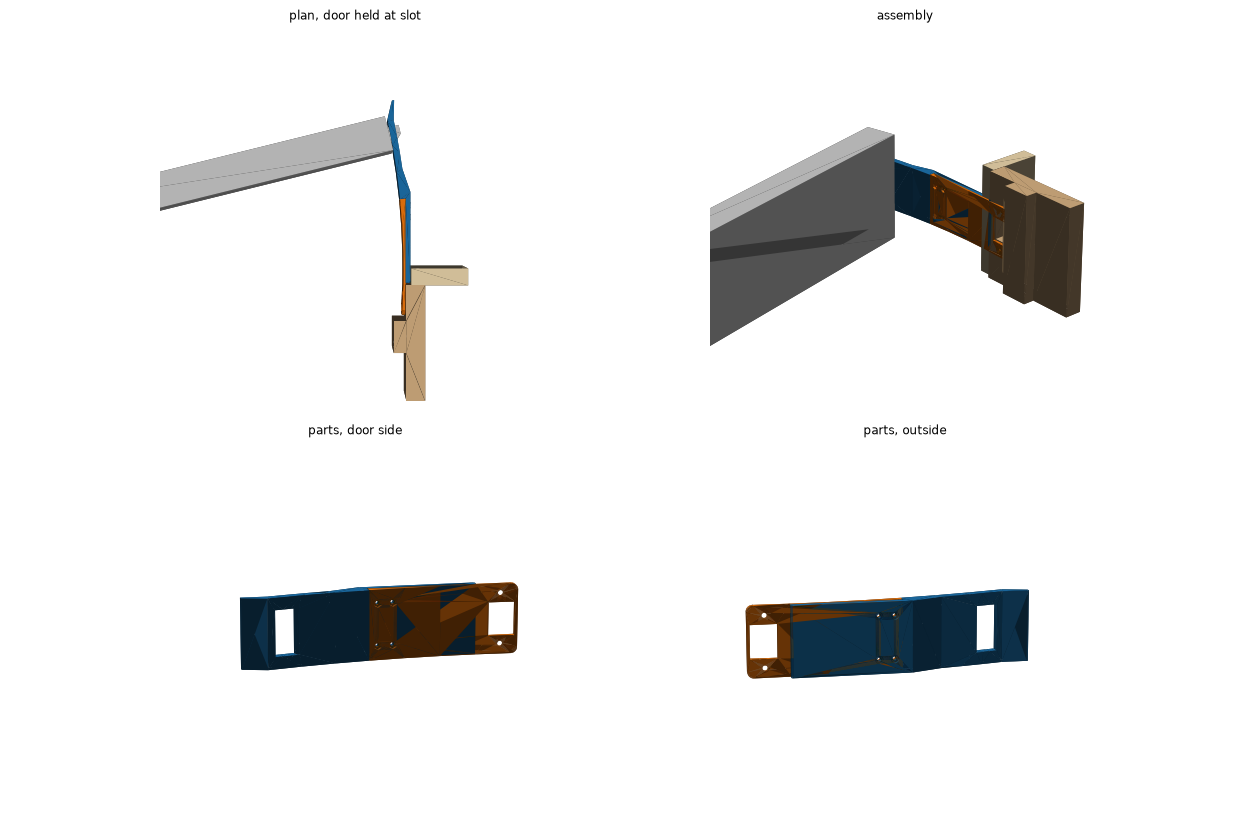
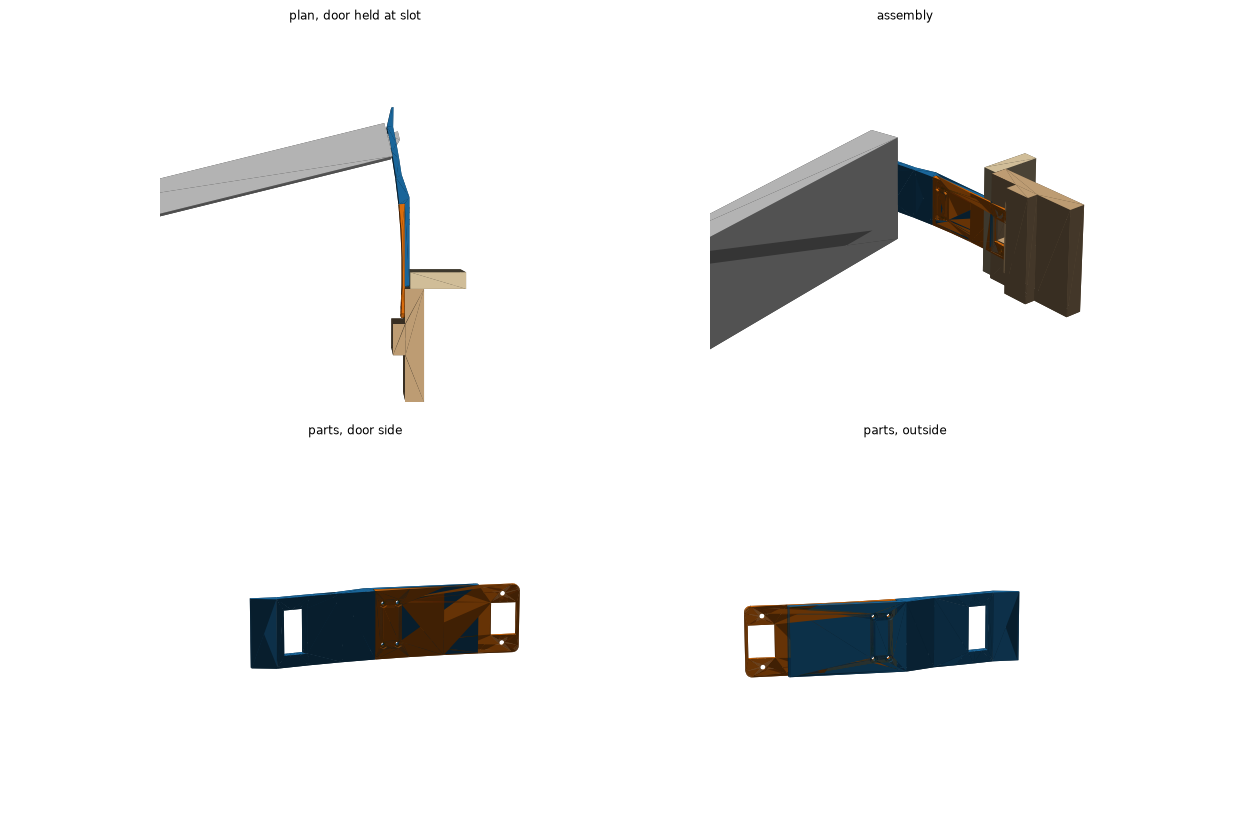
Add README, renders and render script
Rewrite the README with photos-style renders, hardware, install and
print guidance; add a PyVista render script for the images and keep
NOTES.md wording neutral for a public repo.

Claude-Session: https://claude.ai/code/session_017oSnG4KLpSGDZDYQZdmLJC

diff --git a/tools/render.py b/tools/render.py
@@ -1,0 +1,65 @@
+"""Render the README images in images/ with PyVista (VTK).
+
+Run from the repo root:
+  uv run --with build123d --with pyvista python tools/render.py
+"""
+
+import sys
+import tempfile
+from math import degrees
+from pathlib import Path
+
+ROOT = Path(__file__).resolve().parent.parent
+sys.path.insert(0, str(ROOT))
+
+import pyvista as pv
+from build123d import export_stl
+
+from cat_door_latch import P, make_arm, make_casing, make_door, make_jamb, make_plate
+
+COLORS = {"plate": "#e8892c", "arm": "#2f7fc1", "door": "#d9d9d9", "jamb": "#c9a57a", "casing": "#e3cfa6"}
+
+p = P()
+solids = {
+    "plate": make_plate(p),
+    "arm": make_arm(p),
+    "door": make_door(p, degrees(p.slot_s / p.r_in), view_h=110),
+    "jamb": make_jamb(p, 110),
+    "casing": make_casing(p, 110),
+}
+meshes = {}
+with tempfile.TemporaryDirectory() as tmp:
+    for k, s in solids.items():
+        export_stl(s, f"{tmp}/{k}.stl", tolerance=0.02, angular_tolerance=0.1)
+        meshes[k] = pv.read(f"{tmp}/{k}.stl")
+
+# Trim the reference parts to the area around the latch.
+clip = pv.Box(bounds=(560, 800, -120, 260, -60, 60))
+for k in ("door", "jamb", "casing"):
+    meshes[k] = meshes[k].clip_box(clip.bounds, invert=False)
+
+
+def render(keys, name, camera, size=(1600, 1000), zoom=1.0):
+    pl = pv.Plotter(off_screen=True, window_size=size)
+    pl.set_background("white")
+    for k in keys:
+        pl.add_mesh(meshes[k], color=COLORS[k], smooth_shading=False, specular=0.2, ambient=0.25)
+        edges = meshes[k].extract_feature_edges(feature_angle=35, boundary_edges=False, manifold_edges=False)
+        pl.add_mesh(edges, color="#333333", line_width=1.2)
+    pl.enable_anti_aliasing("ssaa")
+    pl.camera_position = camera
+    pl.reset_camera()
+    pl.camera.zoom(zoom)
+    (ROOT / "images").mkdir(exist_ok=True)
+    pl.screenshot(ROOT / "images" / name)
+    pl.close()
+
+
+everything = ["door", "jamb", "casing", "plate", "arm"]
+up = (0, 0, 1)
+render(everything, "assembly.png", [(860, 430, 230), (700, 70, 0), up], zoom=1.3)
+render(everything, "plan.png", [(690, 70, 900), (690, 70, 0), (0, 1, 0)], zoom=1.2)
+render(["plate", "arm"], "parts_door_side.png", [(450, 150, 120), (705, 90, 0), up], (1600, 900), 1.4)
+render(["plate", "arm"], "parts_outside.png", [(950, 0, 120), (705, 90, 0), up], (1600, 900), 1.4)
+render(["plate"], "face_plate.png", [(450, -60, 150), (712, 20, 0), up], (1200, 900), 1.2)
+render(["arm"], "latch_arm.png", [(950, 40, 120), (705, 110, 0), up], (1600, 900), 1.3)

diff --git a/tools/preview.py b/tools/preview.py
@@ -1,4 +1,4 @@
-"""Render out/preview.png: plan and 3D views of the parts installed with the door held at the slot.
+"""Render out/preview.png, a quick four-view check of the parts installed (README images: tools/render.py).
 
 Run from the repo root:
   uv run --with build123d --with trimesh --with matplotlib --with scipy --with networkx python tools/preview.py
@@ -58,12 +58,13 @@ def draw(ax, keys, el, az, lim):
 
 
 everything = ["door", "jamb", "casing", "plate", "arm"]
+scene = ((560, 780), (-110, 230), (-60, 60))
 fig = plt.figure(figsize=(18, 12))
 views = [
-    (everything, 90, -90, ((560, 780), (-110, 220), (-60, 60)), "plan, door held at slot"),
-    (everything, 25, -130, ((560, 780), (-110, 220), (-60, 60)), "assembly"),
-    (["plate", "arm"], 15, 170, ((650, 750), (-60, 220), (-40, 40)), "parts, door side"),
-    (["plate", "arm"], 15, -10, ((650, 750), (-60, 220), (-40, 40)), "parts, outside"),
+    (everything, 90, -90, scene, "plan, door held at slot"),
+    (everything, 25, -130, scene, "assembly"),
+    (["plate", "arm"], 15, 170, ((650, 750), (-60, 230), (-40, 40)), "parts, door side"),
+    (["plate", "arm"], 15, -10, ((650, 750), (-60, 230), (-40, 40)), "parts, outside"),
 ]
 for i, (keys, el, az, lim, title) in enumerate(views, 1):
     ax = fig.add_subplot(2, 2, i, projection="3d")
@@ -71,3 +72,5 @@ for i, (keys, el, az, lim, title) in enumerate(views, 1):
     ax.set_title(title)
 plt.tight_layout()
 plt.savefig(ROOT / "out" / "preview.png", dpi=70)
+plt.close(fig)
+

diff --git a/README.md b/README.md
@@ -1,45 +1,74 @@
-# Cat door latch (curved remix)
+# Curved Cat Door Latch
 
-A parametric remix of the Printables "Cat Door Latch rev 2" (public domain; originals in `original/`).
-It replaces the metal strike plate with a printed **face plate**. A separate **latch arm** follows the door's swing arc and has one slot that holds the door ajar at about 13.9°.
+A 3D printed door stop that holds an interior door open just wide enough for a cat to get through, and keeps it from closing or blowing open.
 
-Everything is generated by `cat_door_latch.py` (build123d / OpenCascade). The STEP files import cleanly into Onshape.
+It replaces the door's metal strike plate. When the door is opened about 14°, the latch bolt drops into a slot in a curved arm and holds the door there. To close the door fully, turn the handle.
 
-## Build
+![Assembly with the door held open at the slot](images/assembly.png)
 
-```sh
-uv run --with build123d python cat_door_latch.py
-uv run --with build123d --with trimesh --with matplotlib --with scipy --with networkx python tools/preview.py
-```
+This is a parametric remix of [Cat Door Latch rev 2](https://www.printables.com/model/763947) on Printables (CC0). The remix makes these changes:
 
-The first command writes `out/*.step` and `out/*.stl` and prints the clearance checks. Every overlap must read `0.000`.
-The second writes `out/preview.png`. Use bare `python` through `uv`, not `python3`.
+- **The arm follows the door's swing arc.** It is centered on the real hinge axis, so the door clears it by a constant 1 mm the whole way around.
+- **Two printed parts.** A face plate screws into the old strike recess, and a separate latch arm bolts to it.
+- **The arm is braced by the trim.** Its root slides into the gap between the door frame and the trim, which keeps it stiff.
+- **The latch bolt rides up a ramp.** When the door closes from wide open, the arm's flared tip pushes the bolt in, so it doesn't jam.
+- **Everything is driven by measurements.** All dimensions live in one dataclass in `cat_door_latch.py`, and the build re-runs clearance checks against a model of the door, jamb and trim.
 
-| File | What |
+| Plan view (door held at the slot) | Parts, door side |
 |---|---|
-| `out/face_plate.stl/.step` | Printed strike plate |
-| `out/latch_arm.stl/.step` | Printed arm |
-| `out/ref_*.step` | Door (at the slot), lock jamb, casing, for checking fit in CAD |
-| `out/hinge_measure.png` | Diagram of how the hinge pivot was measured |
-| `cat-door-latch.3mf` | Slicer project |
+| ![Plan view](images/plan.png) | ![Parts from the door side](images/parts_door_side.png) |
 
-## Hardware and assembly
+| Face plate | Latch arm |
+|---|---|
+| ![Face plate](images/face_plate.png) | ![Latch arm](images/latch_arm.png) |
 
-- 2x wood screws (the original strike screws) through the plate into the jamb.
-- 4x **M3x8 socket head** screws and 4x **standard M3 nuts (2.4 mm thick)**.
-  The nuts press into hex pockets in the plate's door-side face. The screws go in from the arm's back, which sits past the trim, so they can be reached after install.
+## Files
 
-1. Press the nuts into the plate.
-2. Screw the plate onto the jamb over the old strike recess.
-3. Slide the arm root into the 5 mm reveal between the jamb and the trim.
-4. Bolt the arm to the plate. Snug only.
+| File | |
+|---|---|
+| [`out/face_plate.stl`](out/face_plate.stl) / `.step` | Face plate |
+| [`out/latch_arm.stl`](out/latch_arm.stl) / `.step` | Latch arm |
+| `out/ref_*.step` | Reference door (at the slot), lock jamb and trim, for checking fit in CAD |
+| `cat-door-latch.3mf` | Bambu Studio project (Bambu Lab A1) |
+| `original/` | The original Printables files |
+
+The STEP files import cleanly into Onshape, Fusion and FreeCAD.
+
+## Hardware
+
+- 2x wood screws: reuse the strike plate screws.
+- 4x M3x8 socket head cap screws.
+- 4x M3 hex nuts, standard 2.4 mm thick.
+
+## Install
+
+1. Remove the metal strike plate.
+2. Press the four nuts into the hex pockets on the face plate's front (the door side).
+3. Screw the face plate into the strike recess.
+4. Slide the arm's root into the gap between the jamb and the trim.
+5. Bolt the arm to the plate from the trim side. The screw heads sit just past the trim, where you can reach them. Snug only, since they thread into plastic.
 
 ## Printing
 
-- **Plate:** flat on its back, so the nut pockets face up and need no supports.
-- **Arm:** standing on its lower edge. It is tall and narrow, so it is prone to lifting:
-  - outer brim of 10 to 15 mm, with **brim-object gap = 0** (the default 0.1 let the part tear off the brim);
-  - elephant foot compensation 0;
-  - glue stick, no part fan for the first layers, no drafts.
+| Part | Orientation | Notes |
+|---|---|---|
+| Face plate | Flat on its back | The nut pockets face up, so no supports are needed. |
+| Latch arm | Standing on its lower edge | Tall and narrow, so give it good bed adhesion. |
 
-See `NOTES.md` for measurements, design reasoning and lessons learned.
+For the arm, use an outer brim of 10 to 15 mm with **brim-object gap set to 0**; at the default 0.1 mm the part can pull off the brim. Also set elephant foot compensation to 0, use a glue stick, and turn the part fan off for the first few layers.
+
+## Make it fit your door
+
+Every dimension is a field of the `P` dataclass at the top of `cat_door_latch.py`: door width and thickness, hinge pivot position, strike recess, latch bolt, trim and so on. Measure your door, edit the values, and rebuild:
+
+```sh
+uv run --with build123d python cat_door_latch.py                     # STEP + STL into out/, prints clearance checks
+uv run --with build123d --with pyvista python tools/render.py        # README images
+uv run --with build123d --with trimesh --with matplotlib --with scipy --with networkx python tools/preview.py  # quick out/preview.png
+```
+
+Every overlap the build prints should read `0.000`.
+
+The measurement that matters most is the **hinge pivot**: the actual axis the door rotates around, not the edge of the hinge barrel. If it's wrong, the parts rub harder the farther the door opens.
+
+See [NOTES.md](NOTES.md) for the coordinate frame, every measured value, design reasoning and lessons learned from test installs.

diff --git a/NOTES.md b/NOTES.md
@@ -26,7 +26,7 @@ These are all in the `P` dataclass in `cat_door_latch.py`.
 | Trim: 17 mm deep | 5 mm reveal back from the strike face. |
 | Latch bolt: 12.7 mm throw | The first 6.7 mm is square and the last 6 mm is beveled. Bevel faces the stop side. |
 
-The user is not fluent in door terminology. "Outside edge" means the room side, and "door frame" means the jamb. When a measurement is ambiguous, confirm it with a drawn diagram (matplotlib PNG), not ASCII art.
+In conversation, "outside edge" meant the room side and "door frame" meant the jamb. When a measurement is ambiguous, confirm it with a drawn diagram, not ASCII art.
 
 ## How the geometry works
 
@@ -75,12 +75,12 @@ The user is not fluent in door terminology. "Outside edge" means the room side, 
 2. **Jamb edge was off by 17 mm.** The 15.7 mm measurement was taken to the trim's front face, but the model used it as the distance to the jamb edge. The arm root stopped 16.5 mm short of the frame. The pivot-to-frame measurement (15.9) cross-checks it, so keep both consistent.
 3. **Closing jam.** The bolt's 6.7 mm square face hit the arm tip because the old ramp was only 4 mm deep. The swing check had run with the bolt retracted, which hid it.
 4. **Arm flex.** An unsupported arm root lets the screws pull the arm into the door's path. The root has to bear on the trim. Clamping it hard against the jamb edge also bent the arm, hence the 1.5 mm `root_gap`.
-5. **Nuts.** The user's M3 nuts are 2.4 mm. That is too thick for a pocket where the plate is under about 3 mm, which is why the bolts moved out to where the plate is thicker. Thin jam nuts (1.8 mm) would allow the bolts closer. A self-tapping version was tried and rejected as too weak. Heat-set inserts (3 mm long, 4.0 to 4.2 mm hole) would fit at the current bolt positions with a reprint of the plate only.
-6. **Removed experiments.**
+5. **Nuts.** The M3 nuts on hand are 2.4 mm. That is too thick for a pocket where the plate is under about 3 mm, which is why the bolts moved out to where the plate is thicker. Thin jam nuts (1.8 mm) would allow the bolts closer. A self-tapping version was tried and rejected as too weak. Heat-set inserts (3 mm long, 4.0 to 4.2 mm hole) would fit at the current bolt positions with a reprint of the plate only.
+6. **Dropped ideas.**
    - Arched or rounded slot tops: rejected, so the slot is plain rectangular.
    - Door edge bevel: reverted; the model uses a square door edge.
-   - Slot 1: removed at the user's request.
-   - Flat-head M3 screws: the user only has socket heads.
+   - Slot 1: removed because it wasn't needed.
+   - Flat-head M3 screws: only socket heads were on hand.
 7. **Printing.** The arm lifted off its brim. Fix with brim-object gap 0 (see README).
 
 ## Open items
